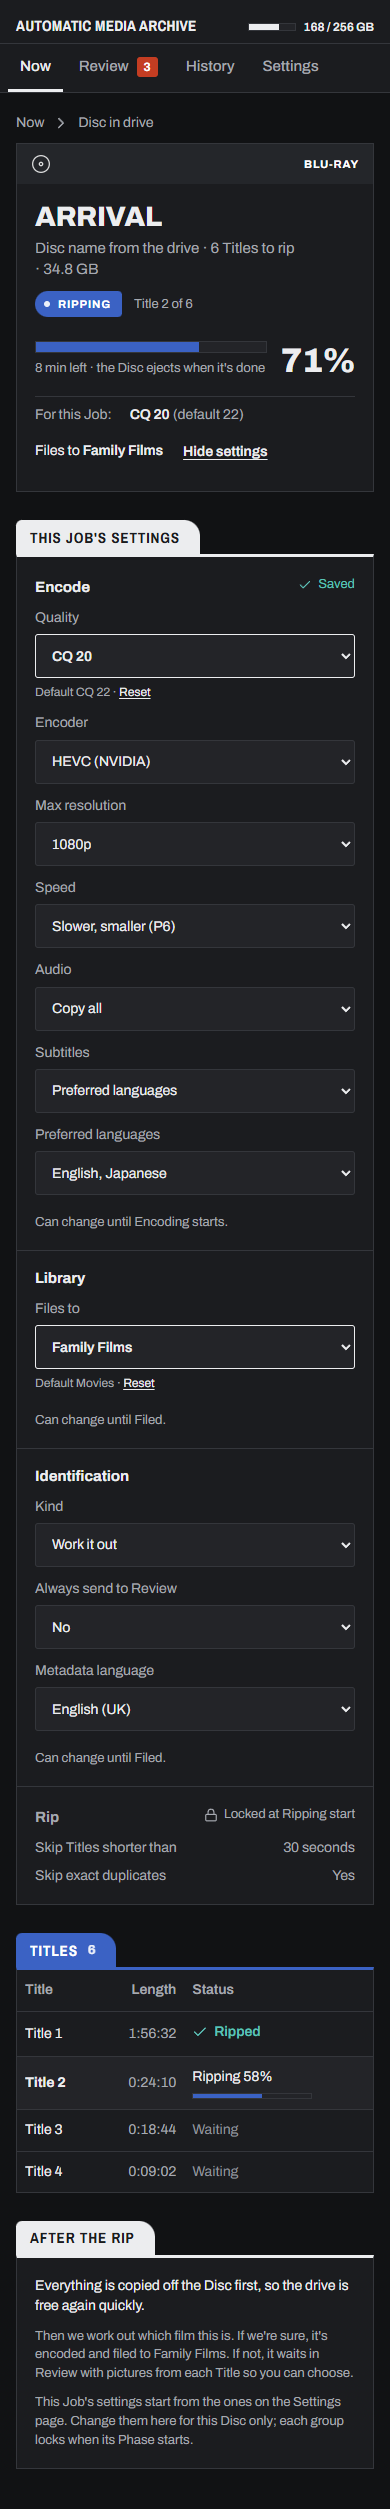
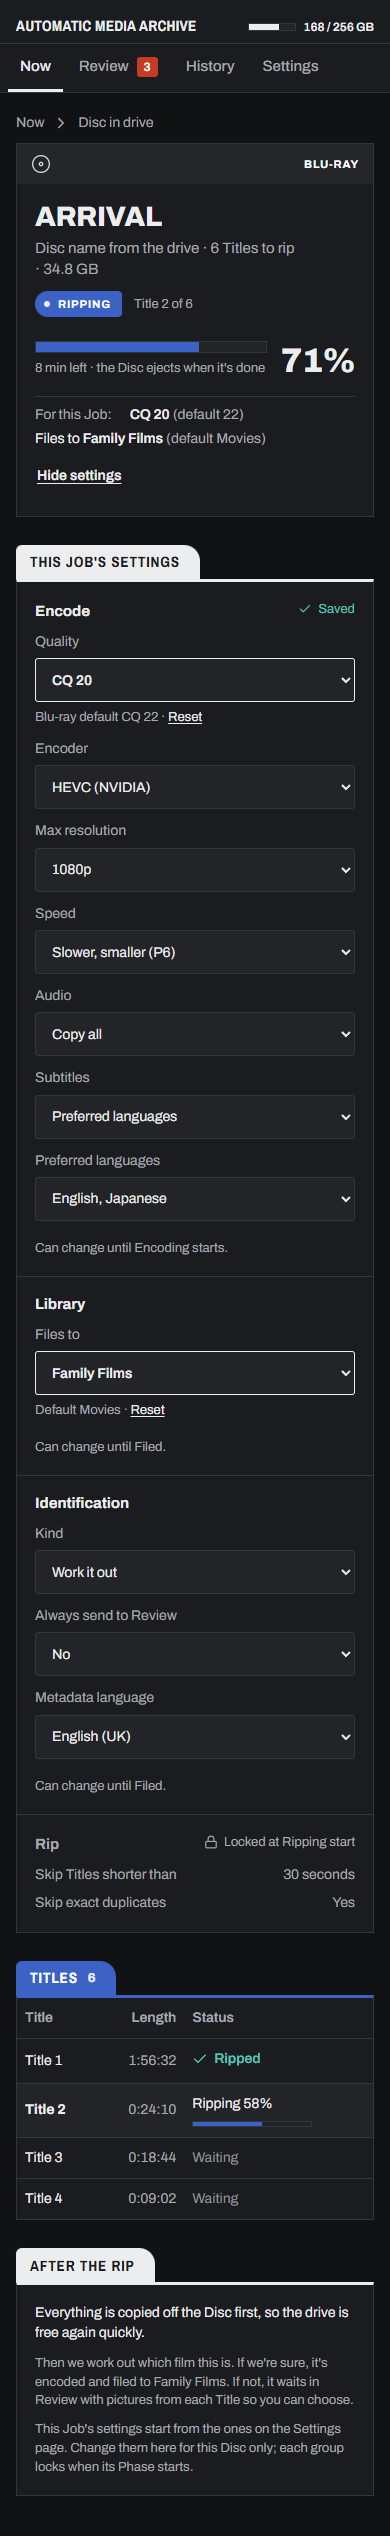
Tidy per-Job settings mockups after review
Use "Logs" rather than "Logs run", give Reset a 44px hit area, make hints
13px like other field hints, name the Blu-ray default, drop styles the app
stylesheet already has, and remove the duplicate north star from the
impeccable sidecar overview.

Refs #29

diff --git a/docs/mockups/job-settings-rip-video.html b/docs/mockups/job-settings-rip-video.html
@@ -6,15 +6,6 @@
 <link rel="preconnect" href="https://fonts.googleapis.com"><link rel="preconnect" href="https://fonts.gstatic.com" crossorigin>
 <link href="https://fonts.googleapis.com/css2?family=Archivo:wght@400;500;600;700;800&family=Archivo+Narrow:wght@600;700&display=swap" rel="stylesheet">
 <link rel="stylesheet" href="assets/ama.css"><link rel="stylesheet" href="assets/ama-app.css"><script src="assets/theme.js"></script>
-<style>
-.tbl .num{text-align:right;color:var(--ink2);white-space:nowrap}
-.tbl .st{width:200px}
-.ok{display:inline-flex;align-items:center;gap:6px;color:var(--fil-ink);font-weight:600}
-.ok .i{width:16px;height:16px}
-.wait{color:var(--ink3)}
-.tbl tr.now td{background:var(--well)}
-@media (max-width:720px){.tbl .hide-m{display:none}.tbl .st{width:auto}.tbl td,.tbl th{padding:10px 8px}}
-</style>
 </head>
 <body>
 <header class="top">
@@ -39,7 +30,7 @@
           <div class="jobset-sum">
             <span class="ts">For this Job:</span>
             <span><b>CQ 20</b> <span class="ts">(default 22)</span></span>
-            <span>Files to <b>Family Films</b></span>
+            <span>Files to <b>Family Films</b> <span class="ts">(default Movies)</span></span>
             <button class="open" type="button" aria-expanded="true" aria-controls="jobset">Hide settings</button>
           </div>
         </div>
@@ -50,7 +41,7 @@
           <div class="col"><div class="grp">
             <div class="gh"><h3>Encode</h3><span class="saved" role="status"><svg class="i" aria-hidden="true"><use href="assets/icons.svg#check"/></svg>Saved</span></div>
             <div class="fld">
-              <label for="e-q">Quality</label><select class="select ov" id="e-q" aria-describedby="e-q-n"><option>CQ 18</option><option>CQ 19</option><option selected>CQ 20</option><option>CQ 21</option><option>CQ 22</option><option>CQ 23</option><option>CQ 24</option></select><span class="note" id="e-q-n">Default CQ 22 · <a href="#">Reset</a></span>
+              <label for="e-q">Quality</label><select class="select ov" id="e-q" aria-describedby="e-q-n"><option>CQ 18</option><option>CQ 19</option><option selected>CQ 20</option><option>CQ 21</option><option>CQ 22</option><option>CQ 23</option><option>CQ 24</option></select><span class="note" id="e-q-n">Blu-ray default CQ 22 · <a href="#">Reset</a></span>
               <label for="e-enc">Encoder</label><select class="select" id="e-enc"><option>HEVC (NVIDIA)</option><option>AV1 (NVIDIA)</option></select>
               <label for="e-res">Max resolution</label><select class="select" id="e-res"><option>1080p</option><option>720p</option></select>
               <label for="e-pre">Speed</label><select class="select" id="e-pre"><option>Slower, smaller (P6)</option><option>Balanced (P4)</option><option>Faster (P2)</option></select>

diff --git a/docs/mockups/job-settings-job-video.html b/docs/mockups/job-settings-job-video.html
@@ -6,15 +6,6 @@
 <link rel="preconnect" href="https://fonts.googleapis.com"><link rel="preconnect" href="https://fonts.gstatic.com" crossorigin>
 <link href="https://fonts.googleapis.com/css2?family=Archivo:wght@400;500;600;700;800&family=Archivo+Narrow:wght@600;700&display=swap" rel="stylesheet">
 <link rel="stylesheet" href="assets/ama.css"><link rel="stylesheet" href="assets/ama-app.css"><script src="assets/theme.js"></script>
-<style>
-.tbl .num{text-align:right;color:var(--ink2);white-space:nowrap}
-.tbl .st{width:200px}
-.ok{display:inline-flex;align-items:center;gap:6px;color:var(--fil-ink);font-weight:600}
-.ok .i{width:16px;height:16px}
-.wait{color:var(--ink3)}
-.tbl tr.now td{background:var(--well)}
-@media (max-width:720px){.tbl .hide-m{display:none}.tbl .st{width:auto}.tbl td,.tbl th{padding:10px 8px}}
-</style>
 </head>
 <body>
 <header class="top">
@@ -49,7 +40,7 @@
             <div class="col"><div class="grp locked">
               <div class="gh"><h3>Encode</h3><span class="lk"><svg class="i" aria-hidden="true"><use href="assets/icons.svg#lock"/></svg>Locked at Encoding start</span></div>
               <dl>
-                <dt>Quality</dt><dd>CQ 20<small>Changed for this Job · default CQ 22</small></dd>
+                <dt>Quality</dt><dd>CQ 20<small>Changed for this Job · Blu-ray default CQ 22</small></dd>
                 <dt>Encoder</dt><dd>HEVC (NVIDIA)</dd>
                 <dt>Max resolution</dt><dd>1080p</dd>
                 <dt>Speed</dt><dd>Slower, smaller (P6)</dd>
@@ -95,7 +86,7 @@
       </section>
     </div>
     <div class="aside stack">
-      <p class="ts">Settings locked so far are stored on the Job and listed in its <a href="#">Logs run</a>. Changing a default on the Settings page doesn't touch them.</p>
+      <p class="ts">Settings locked so far are stored on the Job and listed in its <a href="#">Logs</a>. Changing a default on the Settings page doesn't touch them.</p>
     </div>
   </div>
 </main>

diff --git a/docs/mockups/assets/ama-app.css b/docs/mockups/assets/ama-app.css
@@ -130,13 +130,14 @@ td.diff{box-shadow:inset 3px 0 0 var(--rev);padding-left:12px}
 .jobset .fld label{color:var(--ink2)}
 .jobset .fld .select{font-size:14px}
 .jobset .fld .select.ov{border-color:var(--ink);font-weight:600}
-.jobset .note{grid-column:2;margin-top:-6px;font-size:12px;color:var(--ink2)}
-.jobset .note a{color:var(--ink);text-underline-offset:2px}
+.jobset .note{grid-column:2;margin-top:-6px;font-size:13px;color:var(--ink2)}
+/* Hit area grows to 44px without moving the line */
+.jobset .note a{display:inline-block;padding:13px 6px;margin:-13px -6px;color:var(--ink);text-underline-offset:2px}
 .jobset .grp.locked h3,.jobset .grp.locked dt,.jobset .grp.locked dd{color:var(--ink2)}
 .jobset .grp.locked dd{font-weight:400}
 .jobset dl{display:grid;grid-template-columns:minmax(0,1fr) auto;gap:8px 12px;font-size:14px}
 .jobset dd{text-align:right;overflow-wrap:anywhere}
-.jobset dd small{display:block;font-size:12px}
+.jobset dd small{display:block;font-size:13px}
 .jobset-notice{margin:18px 18px 0}
 @media (max-width:720px){
   .jobset{grid-template-columns:minmax(0,1fr)}

diff --git a/docs/mockups/job-settings-rip-cd.html b/docs/mockups/job-settings-rip-cd.html
@@ -10,11 +10,6 @@
 .tbl .n{width:48px;color:var(--ink2)}
 .tbl .len{width:80px;color:var(--ink2)}
 .tbl .st{width:260px}
-.ok{display:inline-flex;align-items:center;gap:6px;color:var(--fil-ink);font-weight:600}
-.ok .i{width:16px;height:16px}
-.wait{color:var(--ink3)}
-.tbl tr.now td{background:var(--well)}
-.notes{display:flex;flex-direction:column;gap:10px;font-size:14px}
 @media (max-width:720px){.tbl .len{display:none}.tbl .st{width:auto}.tbl td,.tbl th{padding:10px 8px}}
 </style>
 </head>
@@ -59,7 +54,7 @@
           </div><div class="col"><div class="grp">
             <div class="gh"><h3>Library</h3></div>
             <div class="fld">
-              <label for="l-lib">Files to</label><select class="select" id="l-lib"><option>Music</option><option>Soundtracks</option><option>Audiobooks</option></select>
+              <label for="l-lib">Files to</label><select class="select" id="l-lib"><option>Music</option><option>Soundtracks</option></select>
             </div>
             <p class="until">Can change until Filed.</p>
           </div>

diff --git a/docs/mockups/job-settings-job-cd.html b/docs/mockups/job-settings-job-cd.html
@@ -55,7 +55,7 @@
       </section>
     </div>
     <div class="aside stack">
-      <p class="ts">Every group is locked once a Job is Filed. These are the values this CD was ripped and filed with; they're also listed in its <a href="#">Logs run</a>.</p>
+      <p class="ts">Every group is locked once a Job is Filed. These are the values this CD was ripped and filed with; they're also listed in its <a href="#">Logs</a>.</p>
     </div>
   </div>
 </main>

diff --git a/DESIGN.md b/DESIGN.md
@@ -336,8 +336,8 @@ A Job's settings as overrides of the global ones (`docs/mockups/job-settings-*.h
 - **Summary line:** on the rip card, a hairline-topped line at the foot of the drive body names only what differs from the defaults ("CQ 20 (default 22)") and ends with a Settings / Hide settings toggle (44px target).
 - **Panel:** an `ink` bin, "This Job's settings", in two columns: Encode on the left, then Library, Identification and Rip stacked on the right. One column under 720px, with labels above controls. CD Jobs show only Identification, Library and Rip.
 - **Group:** a 700 / 15px heading with its state at the right, then label and control pairs. An editable group ends with "Can change until <Phase> starts" or "until Filed".
-- **Override:** the control gets an `ink` border and 600 weight, with "Default <value> · Reset" in 12px `ink-2` under it.
-- **Saving:** each control saves on change, and a `filed-ink` check reading "Saved" appears by the group heading (`role="status"`).
+- **Override:** the control gets an `ink` border and 600 weight, with "Default <value> · Reset" as a 13px `ink-2` hint under it; Reset keeps a 44px hit area. Beside a control on desktop, the label is 400 / 14px `ink-2`.
+- **Saving:** each control saves on change, and a `filed-ink` check reading "Saved" appears by the group heading (`role="status"`, inserted on save so it is announced).
 - **Locked:** a lock icon and "Locked at Ripping start", "Locked at Encoding start" or "Locked when Filed", with the stored values as a definition list in `ink-2` and no controls. An override stays named: "Changed for this Job · default <value>".
 - **Rejected edit:** an attention notice at the top of the panel says the group locked first and the change wasn't saved.
 
